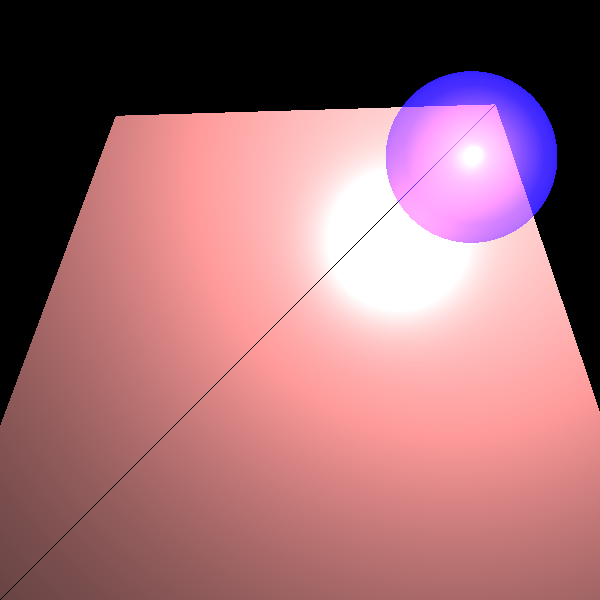
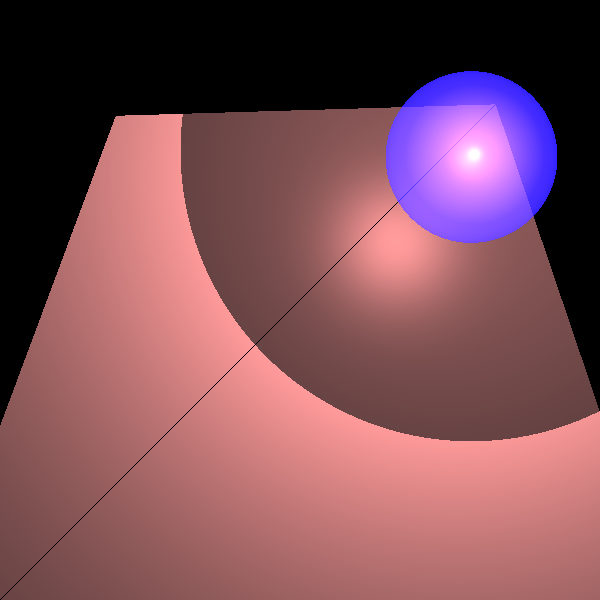
level 7 section 3

Changed region(s): [[0.3, 0.15, 1.0, 0.75]]

diff --git a/src/unittests/renderer/ReflectionRefractionTests.java b/src/unittests/renderer/ReflectionRefractionTests.java
@@ -7,7 +7,13 @@ import org.junit.jupiter.api.Test;
 import geometries.*;
 import lighting.*;
 import primitives.*;
+import renderer.Camera;
+import renderer.ImageWriter;
+import renderer.RayTracerType;
+import renderer.SimpleRayTracer;
 import scene.Scene;
+
+import java.util.List;
 
 /**
  * Tests for reflection and transparency functionality, test for partial
@@ -16,67 +22,101 @@ import scene.Scene;
  * @author Dan Zilberstein
  */
 class ReflectionRefractionTests {
-   /** Default constructor to satisfy JavaDoc generator */
+   /**
+    * Default constructor to satisfy JavaDoc generator
+    */
    ReflectionRefractionTests() { /* to satisfy JavaDoc generator */ }
 
-   /** Scene for the tests */
-   private final Scene          scene         = new Scene("Test scene");
-   /** Camera builder for the tests with triangles */
+   /**
+    * Scene for the tests
+    */
+   private final Scene scene = new Scene("Test scene");
+   /**
+    * Camera builder for the tests with triangles
+    */
    private final renderer.Camera.Builder cameraBuilder = renderer.Camera.getBuilder()     //
-      .setRayTracer(scene, renderer.RayTracerType.SIMPLE);
+           .setRayTracer(scene, renderer.RayTracerType.SIMPLE);
 
-   /** Produce a picture of a sphere lighted by a spot light */
+   /**
+    * Produce a picture of a sphere lighted by a spot light
+    */
    @Test
    void twoSpheres() {
       scene.geometries.add( //
-                           new Sphere(new Point(0, 0, -50), 50d).setEmission(new Color(BLUE)) //
-                              .setMaterial(new Material().setKd(0.4).setKs(0.3).setShininess(100).setKt(0.3)), //
-                           new Sphere(new Point(0, 0, -50), 25d).setEmission(new Color(RED)) //
-                              .setMaterial(new Material().setKd(0.5).setKs(0.5).setShininess(100))); //
+              new Sphere(new Point(0, 0, -50), 50d).setEmission(new Color(BLUE)) //
+                      .setMaterial(new Material().setKd(0.4).setKs(0.3).setShininess(100).setKt(0.3)), //
+              new Sphere(new Point(0, 0, -50), 25d).setEmission(new Color(RED)) //
+                      .setMaterial(new Material().setKd(0.5).setKs(0.5).setShininess(100))); //
       scene.lights.add( //
-                       new SpotLight(new Color(1000, 600, 0), new Point(-100, -100, 500), new Vector(-1, -1, -2)) //
-                          .setKL(0.0004).setKQ(0.0000006));
+              new SpotLight(new Color(1000, 600, 0), new Point(-100, -100, 500), new Vector(-1, -1, -2)) //
+                      .setKL(0.0004).setKQ(0.0000006));
 
       cameraBuilder
-         .setLocation(new Point(0, 0, 1000)) //
-         .setDirection(Point.ZERO, Vector.AXIS_Y) //
-         .setVpDistance(1000).setVpSize(150, 150) //
-         .setResolution(500, 500) //
-         .build() //
-         .renderImage() //
-         .writeToImage("refractionTwoSpheres");
+              .setLocation(new Point(0, 0, 1000)) //
+              .setDirection(Point.ZERO, Vector.AXIS_Y) //
+              .setVpDistance(1000).setVpSize(150, 150) //
+              .setResolution(500, 500) //
+              .build() //
+              .renderImage() //
+              .writeToImage("refractionTwoSpheres");
    }
 
-   /** Produce a picture of a sphere lighted by a spot light */
+   /**
+    * Produce a picture of a sphere lighted by a spot light
+    */
    @Test
    void twoSpheresOnMirrors() {
       scene.geometries.add( //
-                           new Sphere(new Point(-950, -900, -1000), 400d).setEmission(new Color(0, 50, 100)) //
-                              .setMaterial(new Material().setKd(0.25).setKs(0.25).setShininess(20) //
-                                 .setKt(new Double3(0.5, 0, 0))), //
-                           new Sphere(new Point(-950, -900, -1000), 200d).setEmission(new Color(100, 50, 20)) //
-                              .setMaterial(new Material().setKd(0.25).setKs(0.25).setShininess(20)), //
-                           new Triangle(new Point(1500, -1500, -1500), new Point(-1500, 1500, -1500), //
-                                        new Point(670, 670, 3000)) //
-                              .setEmission(new Color(20, 20, 20)) //
-                              .setMaterial(new Material().setKr(1
-                              )), //
-                           new Triangle(new Point(1500, -1500, -1500), new Point(-1500, 1500, -1500), //
-                                        new Point(-1500, -1500, -2000)) //
-                              .setEmission(new Color(20, 20, 20)) //
-                              .setMaterial(new Material().setKr(new Double3(0.5, 0, 0.4))));
+              new Sphere(new Point(-950, -900, -1000), 400d).setEmission(new Color(0, 50, 100)) //
+                      .setMaterial(new Material().setKd(0.25).setKs(0.25).setShininess(20) //
+                              .setKt(new Double3(0.5, 0, 0))), //
+              new Sphere(new Point(-950, -900, -1000), 200d).setEmission(new Color(100, 50, 20)) //
+                      .setMaterial(new Material().setKd(0.25).setKs(0.25).setShininess(20)), //
+              new Triangle(new Point(1500, -1500, -1500), new Point(-1500, 1500, -1500), //
+                      new Point(670, 670, 3000)) //
+                      .setEmission(new Color(20, 20, 20)) //
+                      .setMaterial(new Material().setKr(1
+                      )), //
+              new Triangle(new Point(1500, -1500, -1500), new Point(-1500, 1500, -1500), //
+                      new Point(-1500, -1500, -2000)) //
+                      .setEmission(new Color(20, 20, 20)) //
+                      .setMaterial(new Material().setKr(new Double3(0.5, 0, 0.4))));
       scene.setAmbientLight(new AmbientLight(new Color(26, 26, 26)));
       scene.lights.add(new SpotLight(new Color(1020, 400, 400), new Point(-750, -750, -150), new Vector(-1, -1, -4)) //
-         .setKL(0.00001).setKQ(0.000005));
+              .setKL(0.00001).setKQ(0.000005));
 
       cameraBuilder
-         .setLocation(new Point(0, 0, 10000)) //
-         .setDirection(Point.ZERO, Vector.AXIS_Y) //
-         .setVpDistance(10000).setVpSize(2500, 2500) //
-         .setResolution(500, 500) //
-         .build() //
-         .renderImage() //
-         .writeToImage("reflectionTwoSpheresMirrored");
+              .setLocation(new Point(0, 0, 10000)) //
+              .setDirection(Point.ZERO, Vector.AXIS_Y) //
+              .setVpDistance(10000).setVpSize(2500, 2500) //
+              .setResolution(500, 500) //
+              .build() //
+              .renderImage() //
+              .writeToImage("reflectionTwoSpheresMirrored");
+   }
+   @Test
+   void trianglesTransparentSphere() {
+      scene.geometries.add(
+              new Triangle(new Point(-150, -150, -115), new Point(150, -150, -135),
+                      new Point(75, 75, -150))
+                      .setMaterial(new Material().setKd(0.5).setKs(0.5).setShininess(60)),
+              new Triangle(new Point(-150, -150, -115), new Point(-70, 70, -140), new Point(75, 75, -150))
+                      .setMaterial(new Material().setKd(0.5).setKs(0.5).setShininess(60)),
+              new Sphere( new Point(60, 50, -50),30d).setEmission(new Color(BLUE))
+                      .setMaterial(new Material().setKd(0.2).setKs(0.2).setShininess(30).setKt(0.6)));
+      scene.setAmbientLight(new AmbientLight(new Color(38, 38, 38)));
+      scene.lights.add(
+              new SpotLight(new Color(700, 400, 400), new Point(60, 50, 0), new Vector(0, 0, -1))
+                      .setKL(4E-5).setKQ(2E-7));
+
+      cameraBuilder
+              .setLocation(new Point(0, 0, 1000)) //
+              .setDirection(Point.ZERO, Vector.AXIS_Y) //
+              .setVpDistance(1000).setVpSize(200, 200) //
+              .setResolution(600, 600) //
+              .build() //
+              .renderImage() //
+              .writeToImage("refractionShadow");
    }
 
    /**
@@ -84,28 +124,116 @@ class ReflectionRefractionTests {
     * partially
     * transparent Sphere producing partial shadow
     */
-   @Test
-   void trianglesTransparentSphere() {
-      scene.geometries.add(
-                           new Triangle(new Point(-150, -150, -115), new Point(150, -150, -135),
-                                        new Point(75, 75, -150))
-                              .setMaterial(new Material().setKd(0.5).setKs(0.5).setShininess(60)),
-                           new Triangle(new Point(-150, -150, -115), new Point(-70, 70, -140), new Point(75, 75, -150))
-                              .setMaterial(new Material().setKd(0.5).setKs(0.5).setShininess(60)),
-                           new Sphere(new Point(60, 50, -50), 30d).setEmission(new Color(BLUE))
-                              .setMaterial(new Material().setKd(0.2).setKs(0.2).setShininess(30).setKt(0.6)));
-      scene.setAmbientLight(new AmbientLight(new Color(38, 38, 38)));
-      scene.lights.add(
-                       new SpotLight(new Color(700, 400, 400), new Point(60, 50, 0), new Vector(0, 0, -1))
-                          .setKL(4E-5).setKQ(2E-7));
 
+
+   @Test
+   void mysticObservatory() {
+      // Create a simplified, elegant mystical scene
+      scene.geometries.add(
+              // Dark reflective floor
+              new Plane(new Point(0, -60, 0), new Vector(0, 1, 0))
+                      .setEmission(new Color(5, 5, 10))
+                      .setMaterial(new Material()
+                              .setKd(0.3).setKs(0.4).setShininess(120)
+                              .setKr(0.7)),
+
+              // Back wall - very dark
+              new Plane(new Point(0, 0, -120), new Vector(0, 0, 1))
+                      .setEmission(new Color(3, 3, 8))
+                      .setMaterial(new Material()
+                              .setKd(0.8).setKs(0.2).setShininess(50)),
+
+              // Left wall - dark purple
+              new Plane(new Point(-100, 0, 0), new Vector(1, 0, 0))
+                      .setEmission(new Color(15, 5, 25))
+                      .setMaterial(new Material()
+                              .setKd(0.7).setKs(0.3).setShininess(60)),
+
+              // Right wall - dark blue
+              new Plane(new Point(100, 0, 0), new Vector(-1, 0, 0))
+                      .setEmission(new Color(5, 10, 20))
+                      .setMaterial(new Material()
+                              .setKd(0.7).setKs(0.3).setShininess(60)),
+
+              // Large central crystal orb - the main focal point
+              new Sphere( new Point(0, -15, -50),35d)
+                      .setEmission(new Color(10, 10, 20))
+                      .setMaterial(new Material()
+                              .setKd(0.1).setKs(0.3).setShininess(400)
+                              .setKt(0.85).setKr(0.15)),
+
+              // Large mirror sphere - left side, reflects the crystal
+              new Sphere( new Point(-45, -25, -30),25d)
+                      .setEmission(new Color(8, 8, 12))
+                      .setMaterial(new Material()
+                              .setKs(0.1).setKs(0.2).setShininess(500)
+                              .setKr(0.95)),
+
+              // Glowing energy orb - right side, completes the triangle
+              new Sphere( new Point(40, -30, -35),20d)
+                      .setEmission(new Color(255, 120, 255))
+                      .setMaterial(new Material()
+                              .setKd(0.2).setKs(0.6).setShininess(200)
+                              .setKt(0.4).setKr(0.1))
+
+              // Elegant transparent crystal panel - backdrop
+//              new Polygon(
+//                      new Point(-60, -60, -80),
+//                      new Point(60, -60, -80),
+//                      new Point(60, 40, -80),
+//                      new Point(-60, 40, -80))
+//                      .setEmission(new Color(5, 15, 30))
+//                      .setMaterial(new Material()
+//                              .setKD(0.1).setKS(0.4).setShininess(350)
+//                              .setKt(0.8).setKr(0.2))
+
+              // Mystical pyramid - creates interesting shadows and reflections
+//              new Triangle(
+//                      new Point(0, 50, -60),
+//                      new Point(-25, -15, -45),
+//                      new Point(25, -15, -45))
+//                      .setEmission(new Color(30, 10, 50))
+//                      .setMaterial(new Material()
+//                              .setKD(0.4).setKS(0.5).setShininess(180)
+//                              .setKt(0.3).setKr(0.5))
+      );
+
+      // Very dark ambient light
+      scene.setAmbientLight(new AmbientLight(new Color(5, 5, 8)));
+
+      // Main focused light source - much darker
+      scene.lights.add(
+              new PointLight(
+                      new Color(180, 120, 250),
+                      new Point(0, 30, -10))
+                      .setKL(0.001).setKQ(0.0001)
+      );
+
+      // Secondary accent light - dimmer
+      scene.lights.add(
+              new PointLight(
+                      new Color(100, 180, 120),
+                      new Point(-50, 10, 10))
+                      .setKL(0.002).setKQ(0.0002)
+      );
+
+      // Side light for shadow contrast - very dim
+      scene.lights.add(
+              new PointLight(
+                      new Color(120, 80, 160),
+                      new Point(60, -5, -20))
+                      .setKL(0.003).setKQ(0.0003)
+      );
+
+      // Camera positioned for optimal viewing of all effects
       cameraBuilder
-         .setLocation(new Point(0, 0, 1000)) //
-         .setDirection(Point.ZERO, Vector.AXIS_Y) //
-         .setVpDistance(1000).setVpSize(200, 200) //
-         .setResolution(600, 600) //
-         .build() //
-         .renderImage() //
-         .writeToImage("refractionShadow");
+              .setLocation(new Point(0, 20, 120))
+              .setDirection(new Point(0, -10, -40), Vector.AXIS_Y)
+              .setVpDistance(100)
+              .setVpSize(200, 200)
+              .setResolution(800, 800)
+              .build()
+              .renderImage()
+              .writeToImage("mysticObservatory");
    }
 }

diff --git a/src/renderer/SimpleRayTracer.java b/src/renderer/SimpleRayTracer.java
@@ -26,6 +26,40 @@ public class SimpleRayTracer extends RayTracerBase {
             return scene.background;
         return calcColor(intersection, ray);
     }
+    /**
+     * Computes how much light is transmitted from the light source to the intersection point,
+     * considering partial transparency of occluding geometries.
+     *
+     * @param intersection the intersection point
+     * @return the transparency coefficient (1.0 = fully transparent, 0.0 = fully blocked)
+     */
+    private Double3 transparency(Intersection intersection) {
+        Vector lightDirection = intersection.l;
+        Vector epsVector = intersection.normal.scale(intersection.nl < 0 ? DELTA : -DELTA);
+        Point newPoint = intersection.point.add(epsVector);
+        Ray shadowRay = new Ray(newPoint, lightDirection);
+
+        double lightDistance = intersection.lightSource.getDistance(intersection.point);
+        List<Intersection> intersections = scene.geometries.calculateIntersectionsHelper(shadowRay);
+
+        if (intersections == null) return Double3.ONE;
+
+        Double3 ktr = Double3.ONE;
+        for (Intersection inter : intersections) {
+            if (inter.geometry == intersection.geometry) continue;
+
+            double dist = inter.point.distance(intersection.point);
+            if (alignZero(dist - lightDistance) <= 0) {
+                ktr = ktr.product(inter.material.kT);
+                if (ktr.lowerThan(MIN_CALC_COLOR_K)) {
+                    return Double3.ZERO; // חסימה כמעט מלאה
+                }
+            }
+        }
+
+        return ktr;
+    }
+
 
     private Color calcColor(Intersection intersection, Ray ray) {
         return calcColor(intersection, ray, MAX_CALC_COLOR_LEVEL, INITIAL_K);
@@ -74,9 +108,11 @@ public class SimpleRayTracer extends RayTracerBase {
 
         for (LightSource lightSource : scene.lights) {
             if (!setLightSource(intersection, lightSource)) continue;
-            if (!unshaded(intersection, lightSource)) continue;
 
-            Color intensity = lightSource.getIntensity(intersection.point);
+            Double3 ktr = transparency(intersection);
+            if (ktr.lowerThan(MIN_CALC_COLOR_K)) continue;
+
+            Color intensity = lightSource.getIntensity(intersection.point).scale(ktr);
 
             Color diffusive = calcDiffusive(material.kD, intersection.l, intersection.normal, intensity);
             Color specular = calcSpecular(material.kS, intersection.l, intersection.normal,
@@ -87,28 +123,6 @@ public class SimpleRayTracer extends RayTracerBase {
 
         return color;
     }
-
-    private boolean unshaded(Intersection intersection, LightSource lightSource) {
-        Vector lightDirection = intersection.l;
-        Vector epsVector = intersection.normal.scale(intersection.nl < 0 ? DELTA : -DELTA);
-        Point newPoint = intersection.point.add(epsVector);
-        Ray shadowRay = new Ray(newPoint, lightDirection);
-        List<Intersection> intersections = scene.geometries.calculateIntersectionsHelper(shadowRay);
-        double lightDistance = lightSource.getDistance(intersection.point);
-
-        if (intersections == null) return true;
-
-        for (Intersection inter : intersections) {
-            if (inter.geometry == intersection.geometry) continue;
-            double dist = inter.point.distance(intersection.point);
-            if (alignZero(dist - lightDistance) <= 0 && inter.material.kT.lowerThan(MIN_CALC_COLOR_K)) {
-                return false;
-            }
-        }
-
-        return true;
-    }
-
     private Color calcSpecular(Double3 ks, Vector l, Vector n, Vector v, double nShininess, Color iL) {
         Vector r = l.subtract(n.scale(2 * l.dotProduct(n))).normalize();
         double max = Math.max(0, r.dotProduct(v)); // נקודת highlight תלויה בזה!
